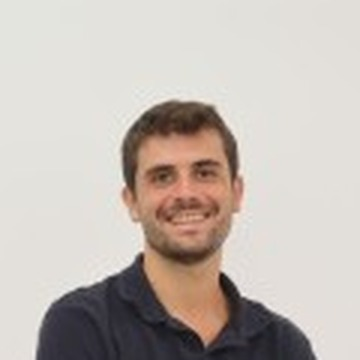
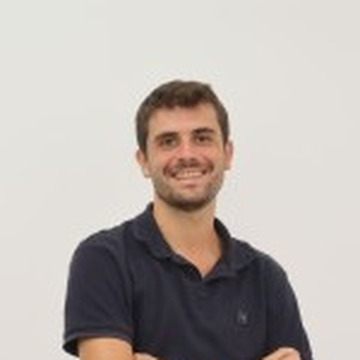
Zoom out profile photo to show head and shoulders; cache-bust with ?v=3

Changed region(s): [[0.0917, 0.2139, 0.8861, 1.0], [0.3667, 0.825, 0.3972, 0.8556]]

diff --git a/index.html b/index.html
@@ -570,7 +570,7 @@
                 <p class="facts"><strong>5 years in cybersecurity</strong> · Offensive security &amp; AI/LLM
                     pentesting · MSc Cybersecurity, BSc Computer Engineering</p>
             </div>
-            <img class="photo" src="profile-2026.jpg" alt="David Ciria Mayordomo" width="170" height="170">
+            <img class="photo" src="profile-2026.jpg?v=3" alt="David Ciria Mayordomo" width="170" height="170">
         </section>
 
         <section class="row" id="about">
